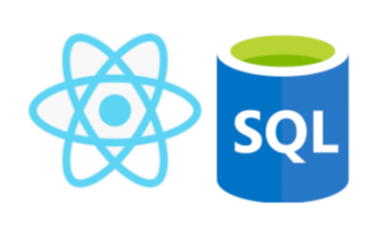
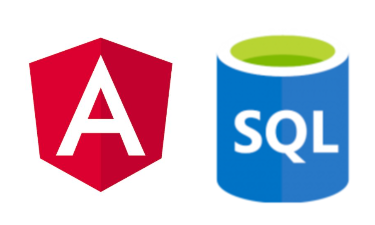
update img,desc

Changed region(s): [[0.0587, 0.1244, 0.5573, 0.8711]]

diff --git a/index.html b/index.html
@@ -101,9 +101,9 @@
         </div>
         <div class="advantage">
           <img src="img/services2.png" alt="" />
-          <h2>React SQL</h2>
+          <h2>Angular SQL</h2>
           <p>
-            Język SQL poznałem na studiach i przydaje mi się do dziś. React jest
+            Język SQL poznałem na studiach i przydaje mi się do dziś. Angular jest
             wspaniałym środowiskiem oraz kolejnym krokiem milowym w stronę
             zostania dobrym Web Developerem. Choć znam tylko podstawy, mam
             zamiar go rozwijać.
@@ -125,15 +125,14 @@
       <h1>Technologie, które chcę rozwinąć</h1>
       <div class="project clearfix">
         <div class="web">
-          <img src="img/portfolio1.jpg" alt="portfolio przykład 1" />
+          <img src="img/portfolio1.png" alt="portfolio przykład 1" />
         </div>
         <div class="about">
-          <h2>React, Redux</h2>
+          <h2>Angular, Redux</h2>
           <p>
-            Jak już wspominałem React jest wspaniałym środowiskiem. W
+            Jak już wspominałem Angular jest wspaniałym środowiskiem. W
             najbliższej przyszłości chciałbym się w niego zagłębić, jak również
-            poznać wiele jego bibliotek tj. "Redux", "React-Router" czy "Styled
-            Components".
+            poznać wiele jego bibliotek np. "Redux".
           </p>
         </div>
       </div>
